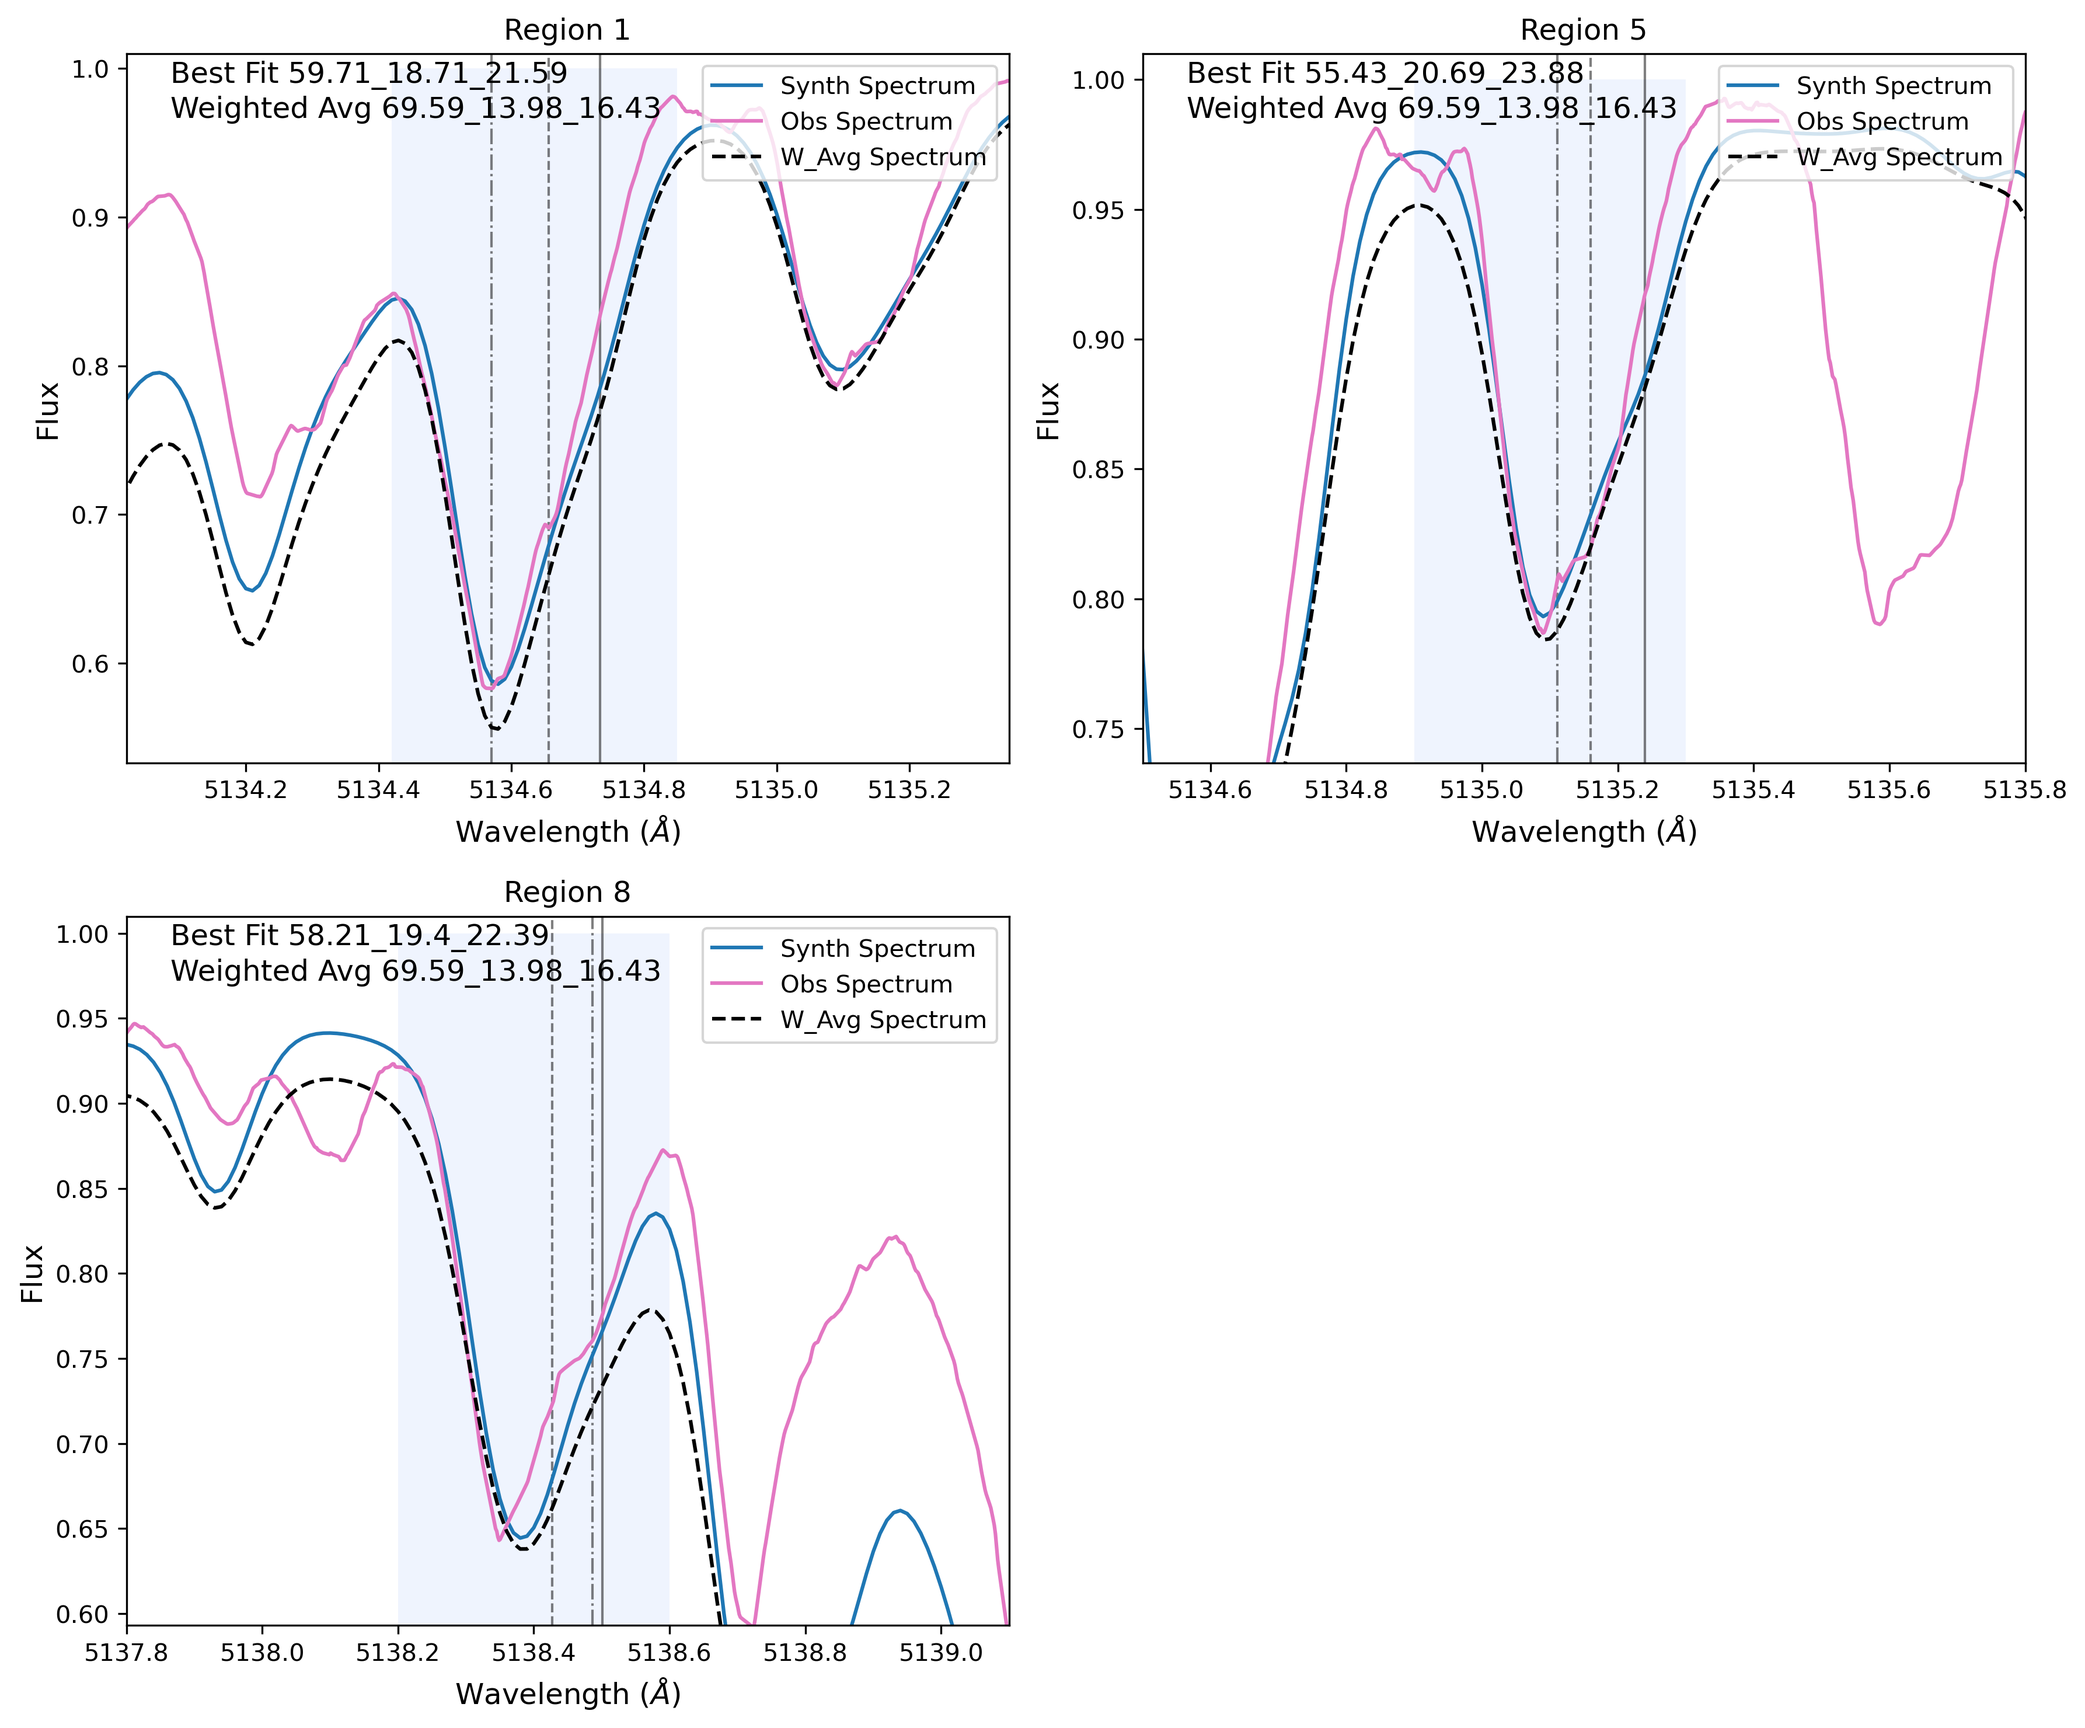
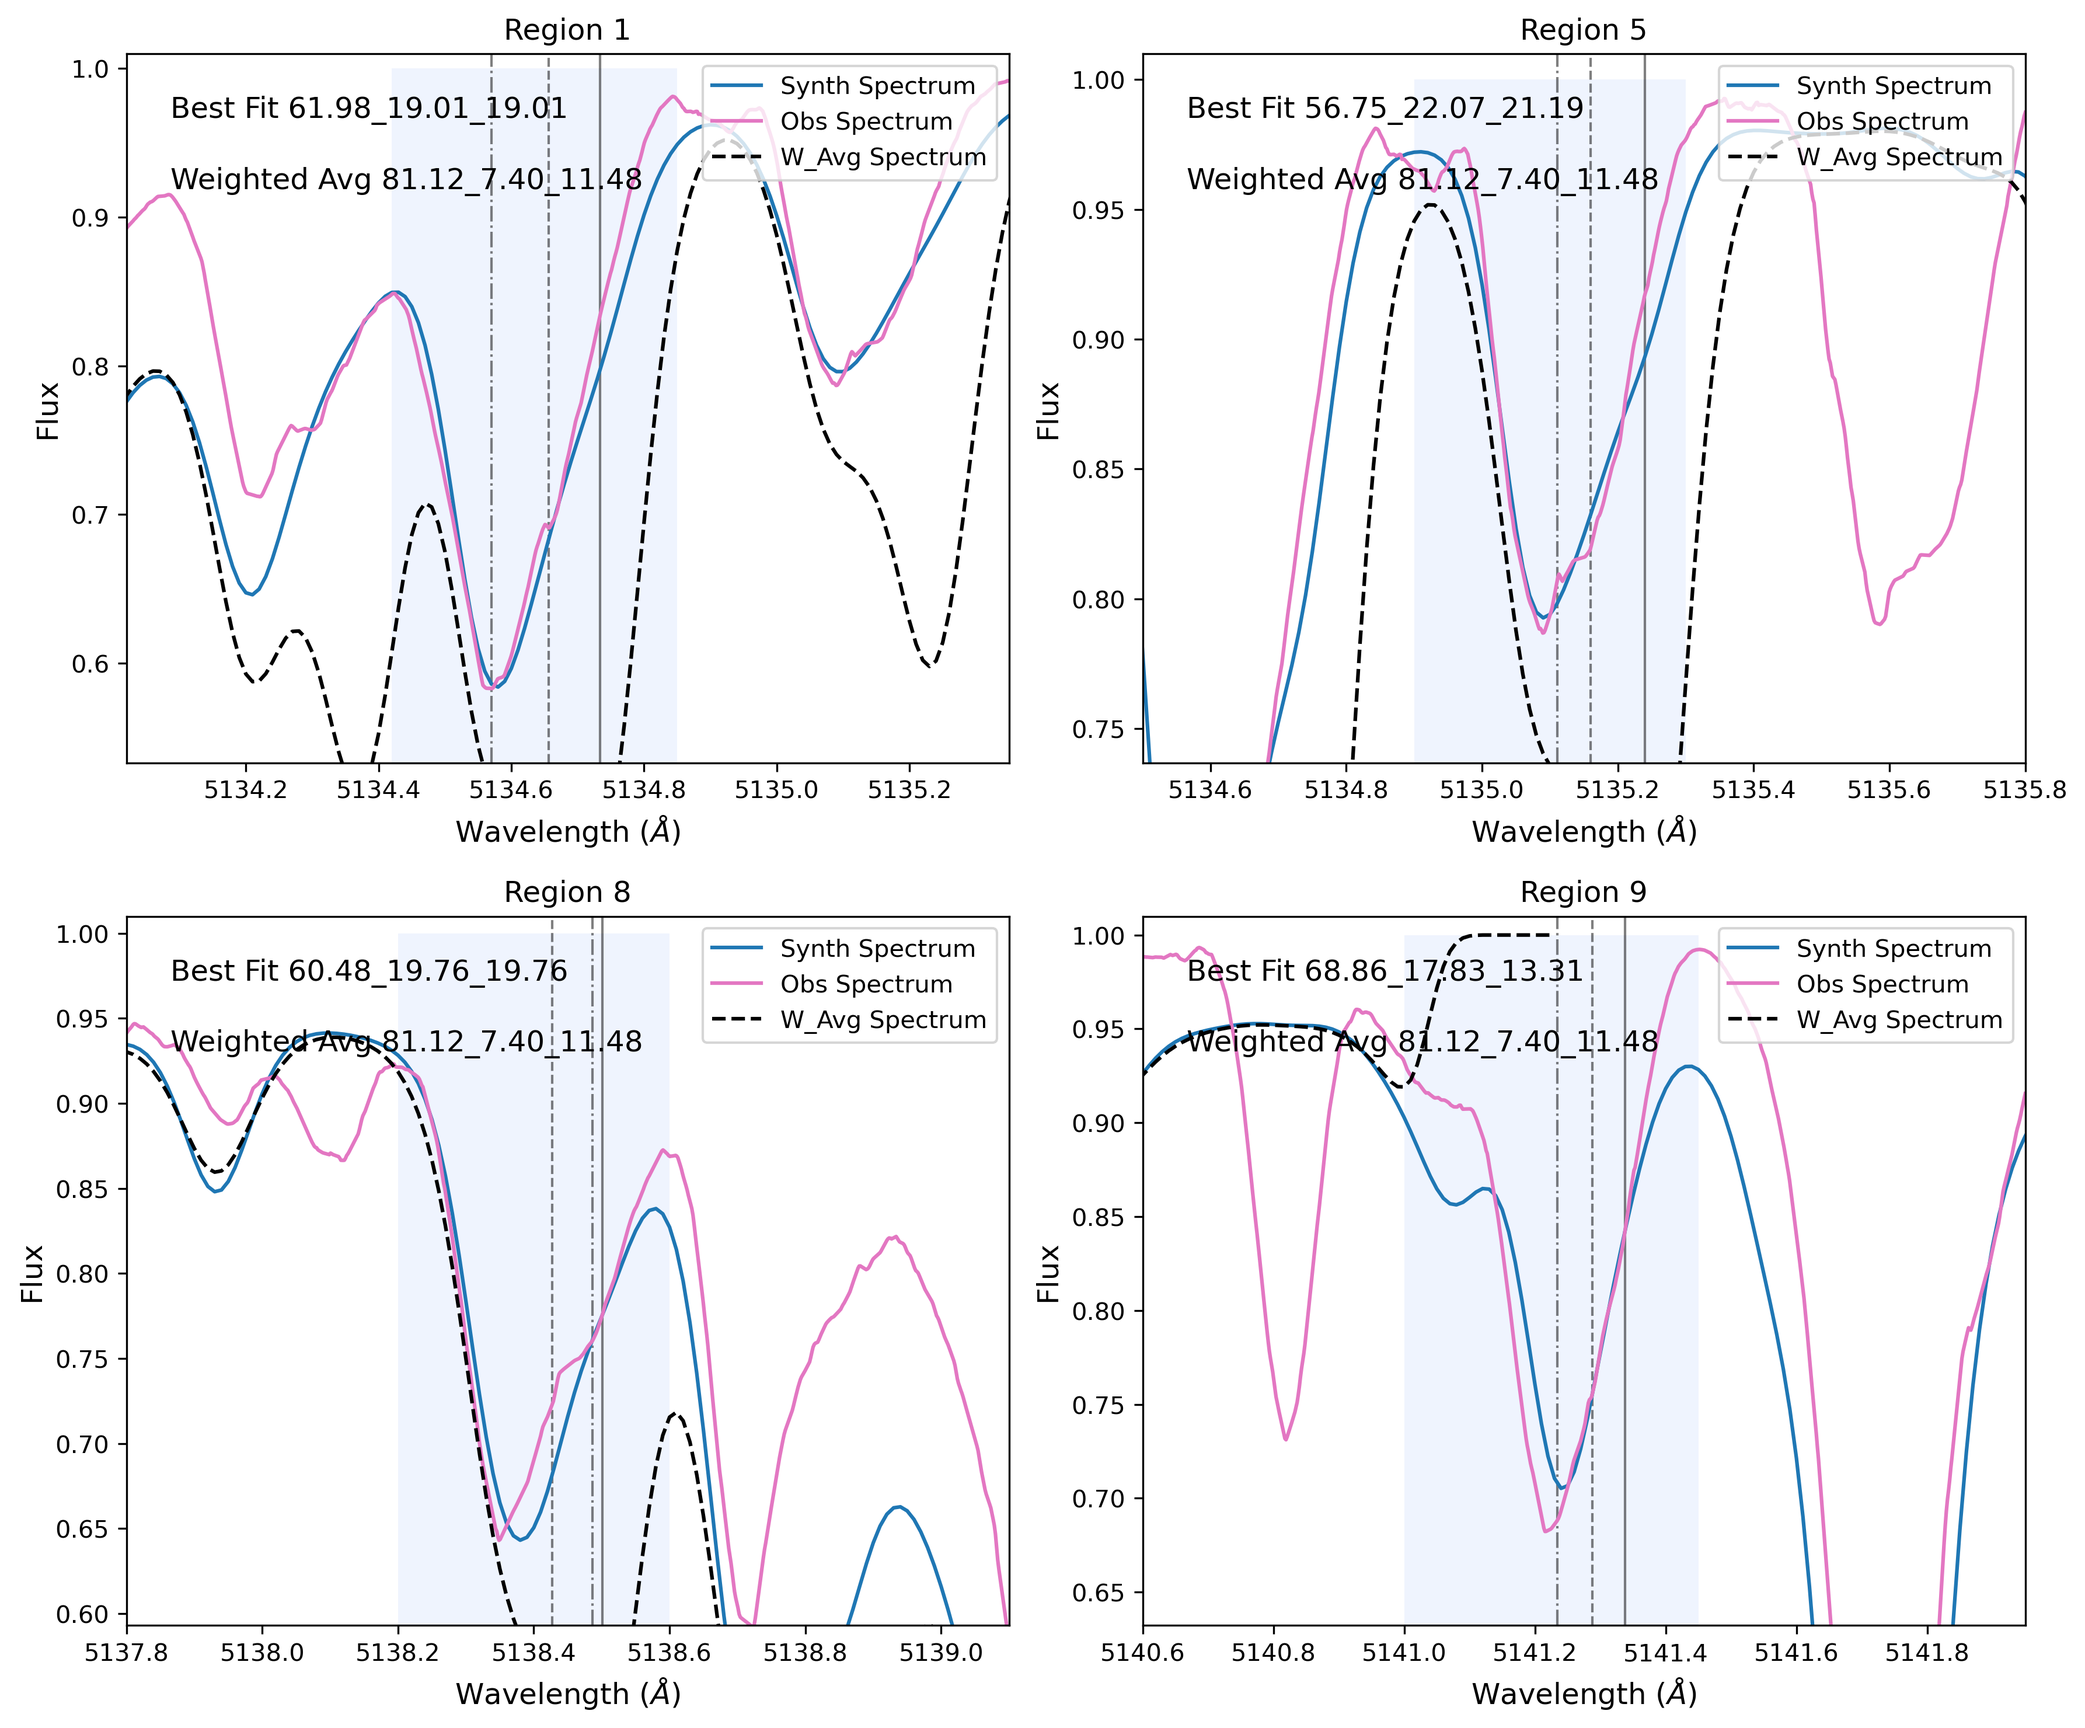
all dwarfs and weighted avergaes working

diff --git a/Isotope Pipeline/Weighted_avg_models.py b/Isotope Pipeline/Weighted_avg_models.py
@@ -65,7 +65,7 @@ def generate_parameter_string(raw_spec_filename, in_filename, out_filename, wave
     make_temp_file(out_filename)
     #par inputs the percentage ratios of the isotopes
     if stronglines != None:
-        print(stronglines)
+        # print(stronglines)
         par_string = "synth\n" +\
         "standard_out   '" + standard_out +"'\n"                    + \
         "summary_out    '" + summary_out +"'\n"                     + \
@@ -84,13 +84,14 @@ def generate_parameter_string(raw_spec_filename, in_filename, out_filename, wave
         str(par['rv']) + "      0.000   0.000    1.00\n"                   + \
         "d          0.06 "+str(vsini)+" 0.6 "+ str(par['s']) +" 0.0\n"        + \
         "abundances   4    1\n"                                     + \
-        "6            0.200000\n"                                  + \
+        "6            0.100000\n"                                  + \
         "12           " + str(par['mg']) + "\n"                     + \
         "22           0.20000\n"                                    + \
         "24           0.10000\n"                                    + \
+        "26           " + str(Fe) + "\n"                            + \
         "isotopes      5    1\n"                                    + \
-        "607.01214     0.2\n"                                       + \
-        "606.01212     2.0\n"                                       + \
+        "607.01214     " + str(CN) + "\n"                            + \
+        "606.01212     " + str(CC) + "\n"                            + \
         "112.00124     "+ str(par['i_24']) +"\n"                    + \
         "112.00125     "+ str(par['i_25']) +"\n"                    + \
         "112.00126     "+ str(par['i_26']) +"\n"                    + \
@@ -103,7 +104,7 @@ def generate_parameter_string(raw_spec_filename, in_filename, out_filename, wave
         #  smooth-type  FWHM-Gauss  vsini     LimbDarkeningCoeff    FWHM-Macro     FWHM-Loren
         
     elif stronglines == None:
-        print(stronglines)
+        # print(stronglines)
         # par_string = "synth\n" +\
         # "standard_out   '" + standard_out +"'\n"                    + \
         # "summary_out    '" + summary_out +"'\n"                     + \
@@ -155,9 +156,10 @@ def generate_parameter_string(raw_spec_filename, in_filename, out_filename, wave
         "12           " + str(par['mg']) + "\n"                     + \
         "22           0.20000\n"                                    + \
         "24           0.10000\n"                                    + \
-        "26           0.18000\n"                                    + \
+        "26           " + str(Fe) + "\n"                            + \
         "isotopes      4    1\n"                                    + \
-        "606.01212     5.0\n"                                       + \
+        "607.01214     " + str(CN) + "\n"                            + \
+        "606.01212     " + str(CC) + "\n"                            + \
         "112.00124     "+ str(par['i_24']) +"\n"                    + \
         "112.00125     "+ str(par['i_25']) +"\n"                    + \
         "112.00126     "+ str(par['i_26']) +"\n"                    + \
@@ -253,7 +255,7 @@ def get_wavelength_region(r, as_string=False, synth_width=8.0):
     """
     # Original analysis regions (used for residuals)
     regions = {
-        0: (5133.0, 5141.45),
+        0: (5128.0, 5146.45),
         1: (5134.42, 5134.85),
         2: (5138.55, 5138.95),
         3: (5140.04, 5140.46),
@@ -331,7 +333,7 @@ stronglines= None
 star_list = ['hd_11695','hd_18884','hd_157244','hd_18907','hd_22049','hd_23249','hd_128621',
     'hd_10700','hd_100407'] 
 # star_list = ['hd_10700']
-vpass = 19
+vpass = 24
 linelist = 'quinlinelist.in'
 #define the weighted average df for plotting
 w_avg_files = pd.DataFrame(columns=['star_name','filename'])
@@ -341,7 +343,7 @@ for star_name in star_list:
     star_info = pd.read_csv(f'/home/users/qai11/Documents/Isotope-Pipeline/Masters_stars.csv', sep=',')
     #get the star regions 
     # regions = star_info[star_info['ID2'] == star_name]['regions'].apply(ast.literal_eval).values[0]
-    regions = [0]
+    region = 0
     #extract the vsini
     vsini = star_info[star_info['ID2'] == star_name]['VSINI'].values[0]
     Fe = star_info[star_info['ID2'] == star_name]['Fe'].values[0]

diff --git a/Isotope Pipeline/Isotope_pipeline_analysis.py b/Isotope Pipeline/Isotope_pipeline_analysis.py
@@ -8,7 +8,7 @@ Description: Run after Isotope_pipeline_uncertainties to calculate the final abu
 # %% """Make a table for the isotopic ratios"""
 # """Makes the All_isotope_ratios_pre_avg file"""
 
-vpass = 23
+vpass = 24
 
 import pandas as pd
 import numpy as np
@@ -705,9 +705,9 @@ def isotope_regions(star_name,regions):
         region_plots(region, raw, ax[i])
         #paste the best fit values for the isotopes onto the plot in the bottom left corner
         ratio = fit_pass.loc[fit_pass['chi_squared'].idxmin()]['ratio']
-        ax[i].text(0.05, 0.95, f'Best Fit {ratio}', transform=ax[i].transAxes, fontsize=12, verticalalignment='bottom')
+        ax[i].text(0.05, 0.90, f'Best Fit {ratio}', transform=ax[i].transAxes, fontsize=12, verticalalignment='bottom')
         #paste the weighted average values for the isotopes onto the plot in the bottom left corner
-        ax[i].text(0.05, 0.90, f"Weighted Avg {weighted_avg_file['R_24'].values[0]:.2f}_{weighted_avg_file['R_25'].values[0]:.2f}_{weighted_avg_file['R_26'].values[0]:.2f}", transform=ax[i].transAxes, fontsize=12, verticalalignment='bottom')
+        ax[i].text(0.05, 0.80, f"Weighted Avg {weighted_avg_file['R_24'].values[0]:.2f}_{weighted_avg_file['R_25'].values[0]:.2f}_{weighted_avg_file['R_26'].values[0]:.2f}", transform=ax[i].transAxes, fontsize=12, verticalalignment='bottom')
         # plot the synthetic spectrum
         ax[i].plot(model_spectra[0], model_spectra[1], label='Synth Spectrum')
         # plot the observed spectrum
@@ -750,16 +750,17 @@ def isotope_regions(star_name,regions):
 #stars less than 5300K
 star_list = ['hd_11695','hd_18884','hd_157244','hd_18907','hd_22049','hd_23249','hd_128621',
     'hd_10700','hd_100407']
-vpass = 19 
+vpass = 24
+
 
 # star_list = ['hd_18884'] #there is a problem here
 for star in star_list:
     #open masters stars csv
     star_info = pd.read_csv(f'/home/users/qai11/Documents/Isotope-Pipeline/Masters_stars.csv', sep=',')
     #get the star regions
-    # regions = star_info[star_info['ID2'] == star]['regions'].apply(ast.literal_eval).values[0]
+    regions = star_info[star_info['ID2'] == star]['regions'].apply(ast.literal_eval).values[0]
     #test regions aug 14th 2025
-    regions = star_info[star_info['ID2'] == star]['old regions'].apply(ast.literal_eval).values[0]
+    # regions = star_info[star_info['ID2'] == star]['old regions'].apply(ast.literal_eval).values[0]
     # regions = [1]
     # print(regions)
     isotope_regions(star,regions)

diff --git a/Isotope Pipeline/Isotope_pipeline_uncertainties.py b/Isotope Pipeline/Isotope_pipeline_uncertainties.py
@@ -534,7 +534,7 @@ step_sizes = [0.0001, 0.05, 0.1, 0.1]  # step sizes for each parameter (mg, i24,
 
 star_list = ['hd_11695','hd_18884','hd_157244','hd_18907','hd_22049','hd_23249','hd_128621',
     'hd_10700','hd_100407'] 
-vpass = 23
+vpass = 24
 
 
 linelist = 'quinlinelist.in'
